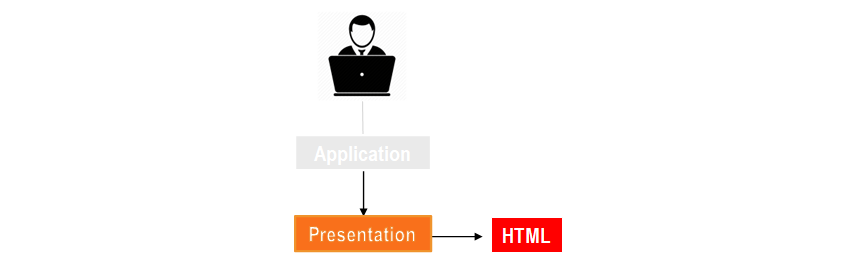
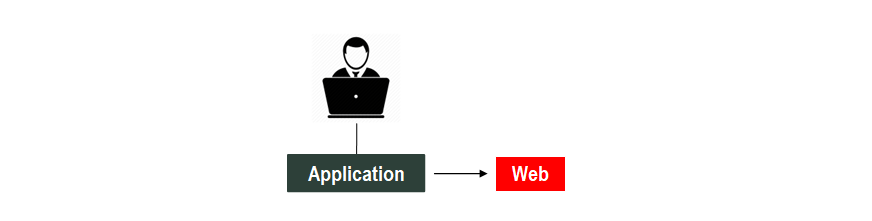
repositorio atualizado

Changed region(s): [[0.3055, 0.6244, 0.6722, 0.9502], [0.3666, 0.0543, 0.4888, 0.543]]

diff --git a/MODELO-OSI/README.md b/MODELO-OSI/README.md
@@ -11,7 +11,7 @@ Digamos que o usuário queira acessar um portal dentro de um servidor Apache, ne
 
 
 
-# 1 - Camada de Apresentação (Presentation layer)
+# 1 - Camada de Aplicação (Aplicattion layer)
 
 
 
@@ -19,6 +19,13 @@ Essa camada formata os dados “web”, em um formato que seja compreendido pelo
 
 
 <p align="center" width="100%">
-    <img width="100%" src="https://github.com/diegonery465/CCNAv7---CISCO/blob/main/MODELO-OSI/img-READ/img02.PNG"> 
+    <img width="100%" src="https://github.com/diegonery465/CCNAv7---CISCO/blob/main/MODELO-OSI/img-READ/img02.png"> 
 </p>
 
+# 2 - Camada de Apresentação (Presentation layer)
+
+Essa camada formata os dados “web”, em um formato que seja compreendido pelo meu servidor neste exemplo o formato compreendido pelo servidor é o “html”, mas poderia ser um outro formato de dados.
+
+<p align="center" width="100%">
+    <img width="100%" src="https://github.com/diegonery465/CCNAv7---CISCO/blob/main/MODELO-OSI/img-READ/img03.png"> 
+</p>
